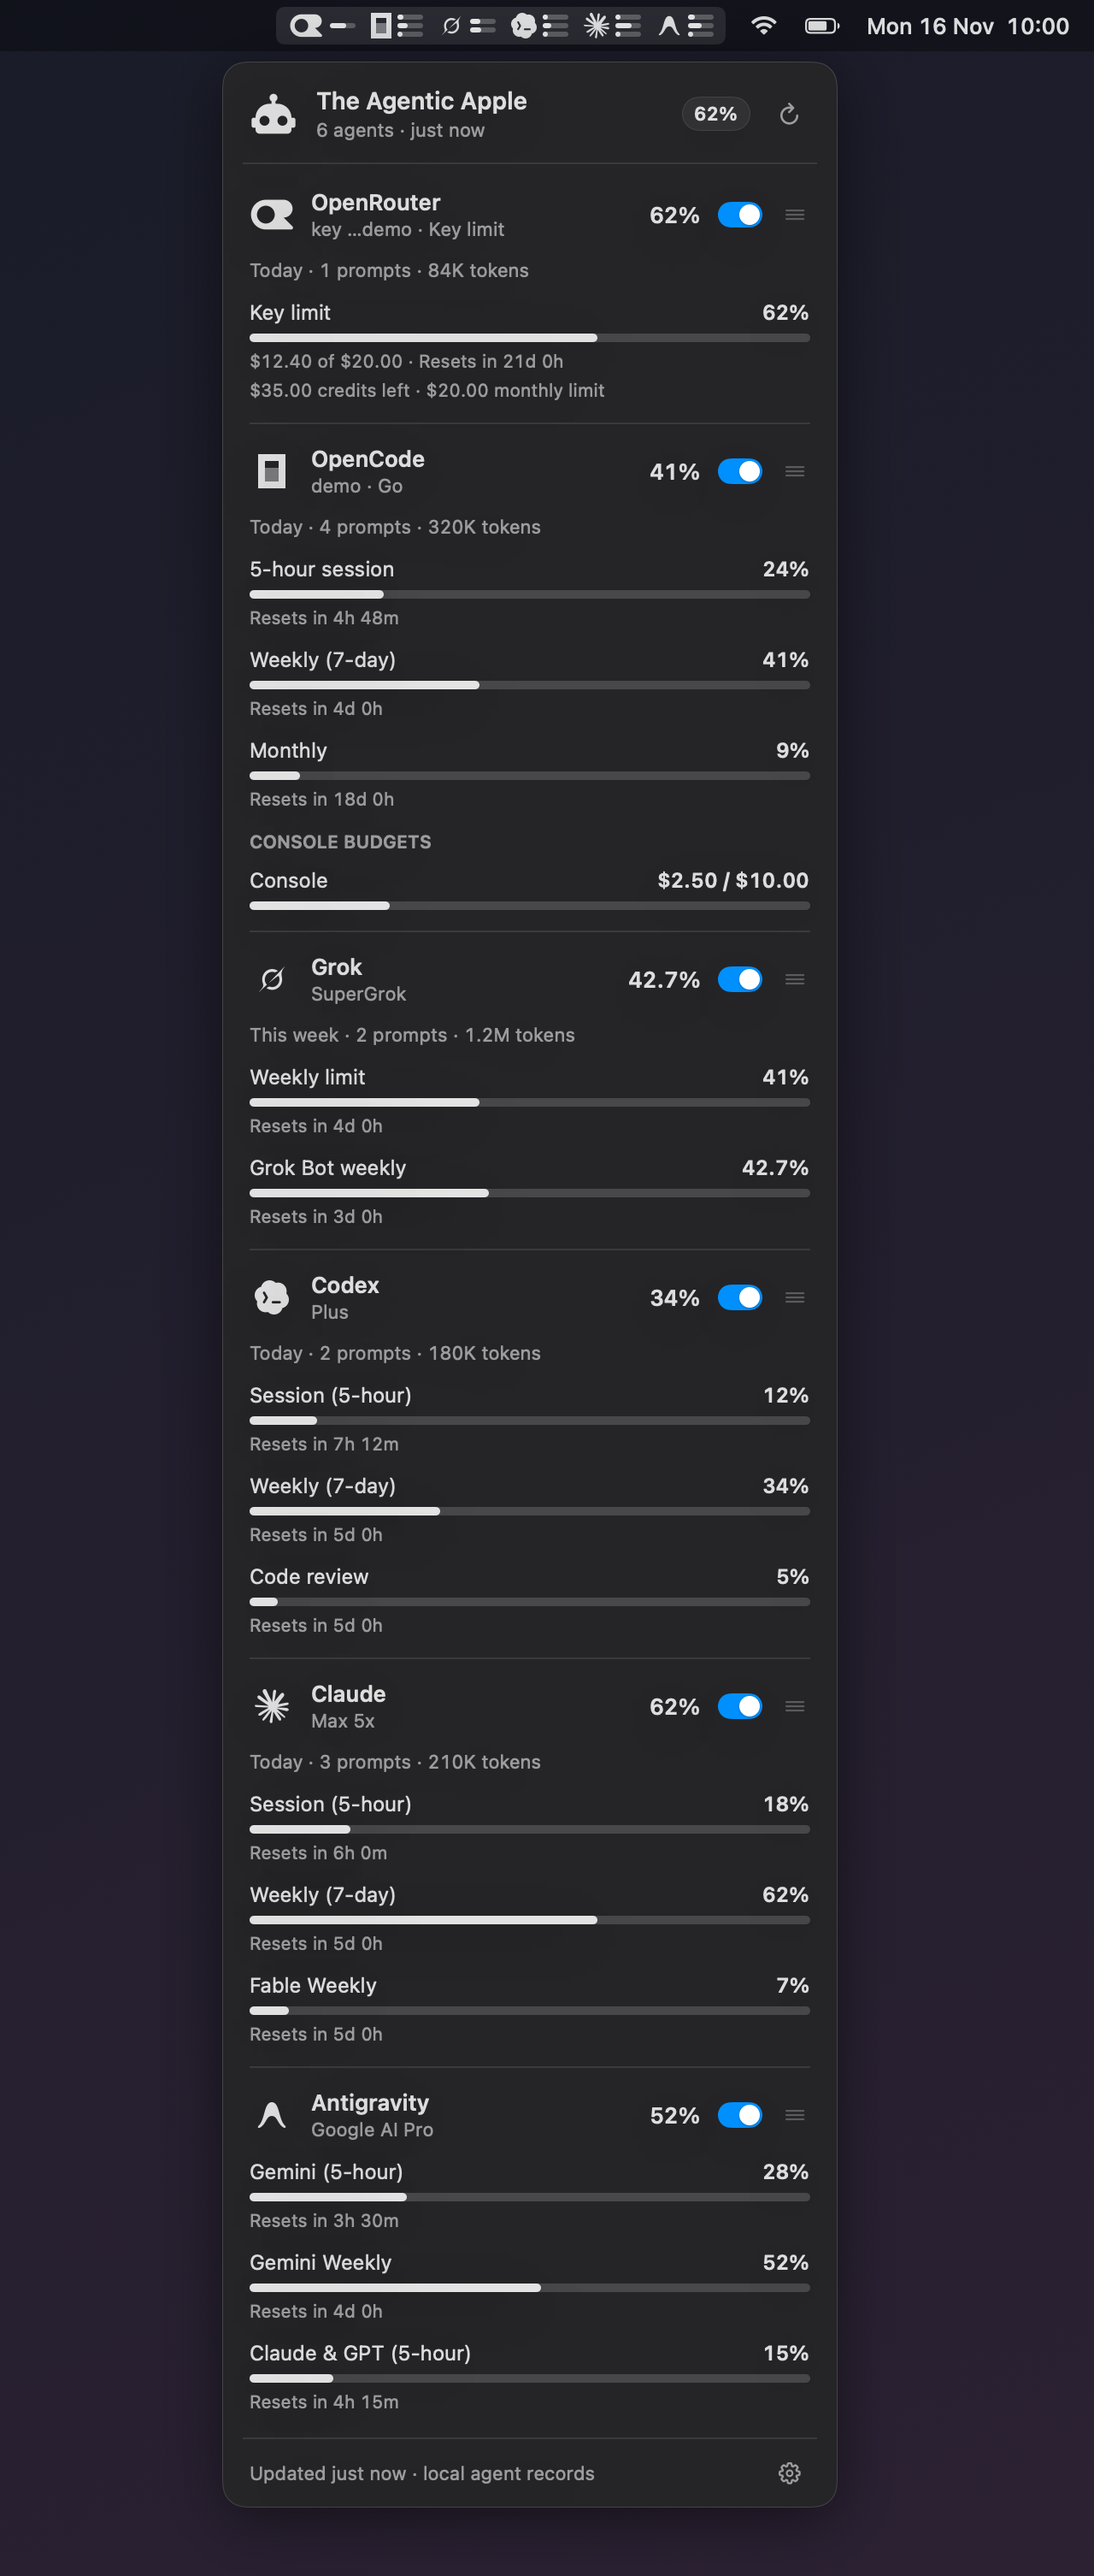
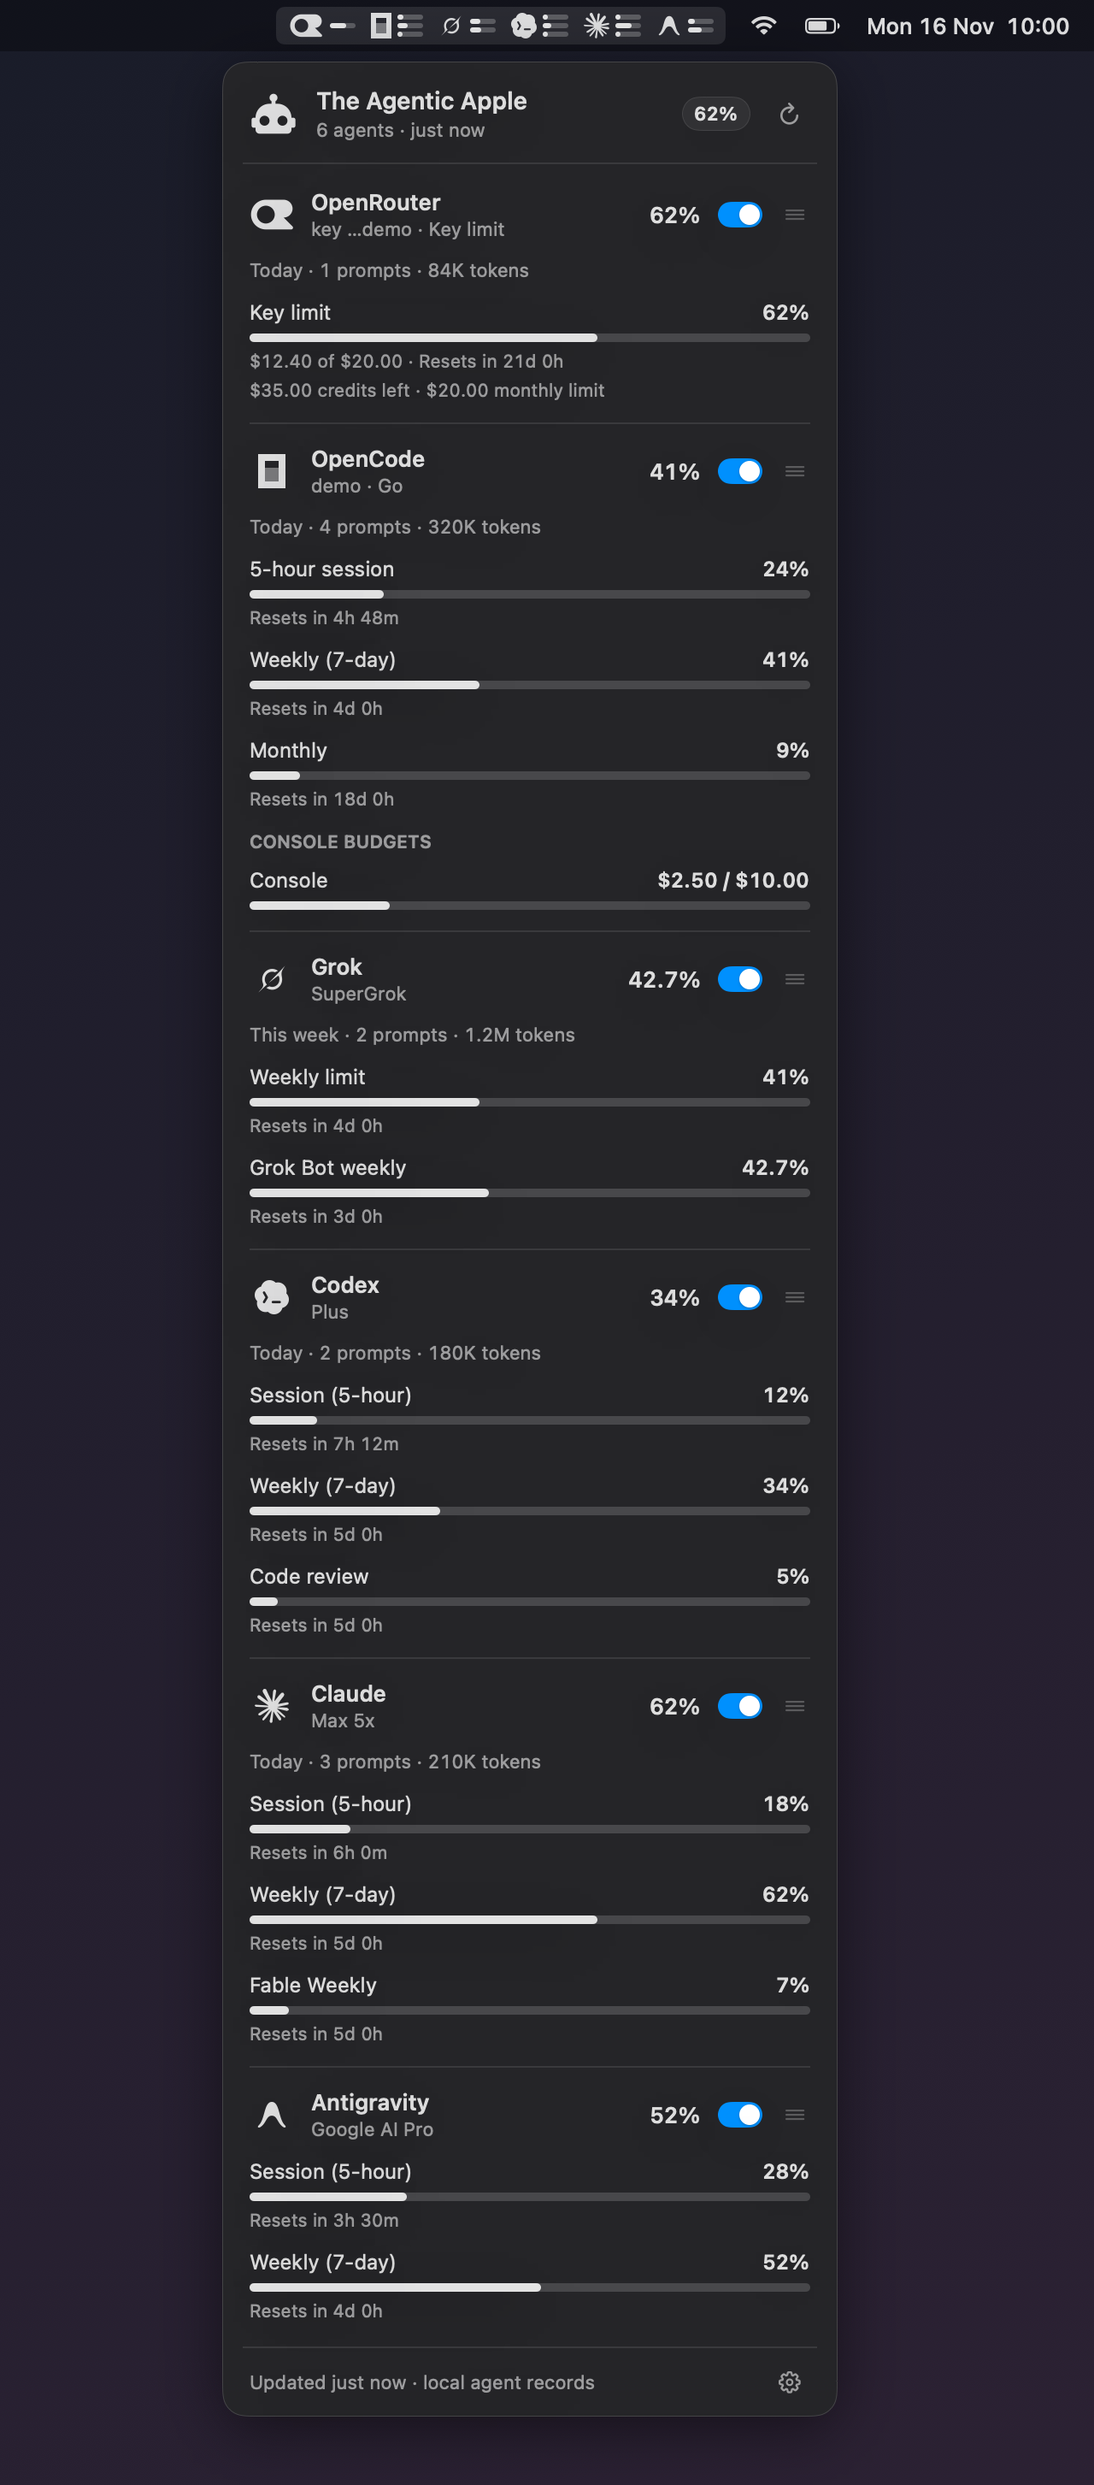
1.2.1: Antigravity Session and Weekly limits with versioned ACP User-Agent

diff --git a/Sources/AgenticCore/Providers/Antigravity.swift b/Sources/AgenticCore/Providers/Antigravity.swift
@@ -565,7 +565,7 @@ public struct AntigravityCollector: ProviderCollector {
             "Authorization": "Bearer " + creds.accessToken,
             "Content-Type": "application/json",
             "Accept": "application/json",
-            "User-Agent": "antigravity/acp",
+            "User-Agent": "antigravity/acp/2.0.0",
         ]
 
         // 1. Resolve plan tier and companion project (best-effort, unless 401/403).
@@ -877,7 +877,11 @@ public struct AntigravityCollector: ProviderCollector {
 
     private static func parseGroups(_ groups: [Any]) -> [Limit] {
         let dictGroups = groups.compactMap { $0 as? [String: Any] }
-        let singleGroup = dictGroups.count == 1
+        let hasGeminiGroup = dictGroups.contains { group in
+            let groupID = Sanitize.text(group["modelGroup"] ?? group["id"], max: 60)
+            let groupName = Sanitize.text(group["displayName"] ?? group["label"], max: 80)
+            return classifyGroup(id: groupID, displayName: groupName).key.hasPrefix("gemini")
+        }
         var ranked: [(rank: Int, subRank: Int, index: Int, limit: Limit)] = []
         var keys = Set<String>()
 
@@ -885,19 +889,39 @@ public struct AntigravityCollector: ProviderCollector {
             let groupID = Sanitize.text(group["modelGroup"] ?? group["id"], max: 60)
             let groupName = Sanitize.text(group["displayName"] ?? group["label"], max: 80)
             let meta = classifyGroup(id: groupID, displayName: groupName)
+            let isPrimary = meta.key == "gemini"
             guard let buckets = group["buckets"] as? [Any] else { continue }
             for case let bucket as [String: Any] in buckets {
                 guard let (used, limited) = usedPercent(from: bucket) else { continue }
+                let resetsAt = Sanitize.dateMs(bucket["resetTime"])
+                // When Antigravity returns the primary Gemini limits, skip untouched
+                // third-party (Claude & GPT) buckets at 0% with no active reset so
+                // the bar and panel stay focused on Session and Weekly limits.
+                if hasGeminiGroup && meta.key == "claude-gpt" && used == 0 && !limited && resetsAt == 0 {
+                    continue
+                }
                 let bWin = Sanitize.text(bucket["window"] ?? bucket["windowType"], max: 40)
                 let bName = Sanitize.text(bucket["displayName"] ?? bucket["label"], max: 60)
-                let bID = Sanitize.text(bucket["id"], max: 60)
+                let bID = Sanitize.text(bucket["bucketId"] ?? bucket["id"], max: 60)
                 let win = classifyWindow(window: bWin, displayName: bName, id: bID)
 
-                let key = "\(meta.key)-\(win.key)"
+                let key: String
+                let label: String
+                let short: String
+                if isPrimary {
+                    key = win.key
+                    switch win.key {
+                    case "session": label = "Session (5-hour)"
+                    case "weekly": label = "Weekly (7-day)"
+                    default: label = win.label.isEmpty ? meta.label : "\(meta.label) \(win.label)"
+                    }
+                    short = win.short
+                } else {
+                    key = "\(meta.key)-\(win.key)"
+                    label = win.label.isEmpty ? meta.label : "\(meta.label) \(win.label)"
+                    short = dictGroups.count == 1 ? win.short : "\(meta.shortPrefix) \(win.short)"
+                }
                 guard keys.insert(key).inserted else { continue }
-                let label = win.label.isEmpty ? meta.label : "\(meta.label) \(win.label)"
-                let short = singleGroup ? win.short : "\(meta.shortPrefix) \(win.short)"
-                let resetsAt = Sanitize.dateMs(bucket["resetTime"])
                 let limit = Limit(key: key, label: Sanitize.plain(label, max: 80),
                                   short: Sanitize.plain(short, max: 14),
                                   percent: used, resetsAt: resetsAt, limited: limited)

diff --git a/Sources/AgenticSelfTest/AntigravityTests.swift b/Sources/AgenticSelfTest/AntigravityTests.swift
@@ -106,9 +106,9 @@ enum AntigravityTests {
         t.equal(p.tier, "Google AI Pro", "tier from GetUserStatus")
         t.equal(p.error, "", "no error")
         t.near(p.readAt, now.timeIntervalSince1970 * 1000, 1, "readAt set")
-        t.equal(p.limits.map(\.key), ["gemini-session", "gemini-weekly", "claude-gpt-session", "claude-gpt-weekly"], "summary keys + rank")
-        t.equal(p.limits.map(\.label), ["Gemini (5-hour)", "Gemini Weekly", "Claude & GPT (5-hour)", "Claude & GPT Weekly"], "summary labels")
-        t.equal(p.limits.map(\.short), ["gem 5h", "gem 7d", "3p 5h", "3p 7d"], "summary shorts")
+        t.equal(p.limits.map(\.key), ["session", "weekly", "claude-gpt-session", "claude-gpt-weekly"], "summary keys + rank")
+        t.equal(p.limits.map(\.label), ["Session (5-hour)", "Weekly (7-day)", "Claude & GPT (5-hour)", "Claude & GPT Weekly"], "summary labels")
+        t.equal(p.limits.map(\.short), ["5h", "7d", "3p 5h", "3p 7d"], "summary shorts")
         t.near(p.limits[0].percent, 28, 0.01, "1 - 0.72 = 28% used")
         t.near(p.limits[1].percent, 52, 0.01, "1 - 0.48 = 52% used")
         t.near(p.limits[2].percent, 15, 0.01, "1 - 0.85 = 15% used")
@@ -185,6 +185,7 @@ enum AntigravityTests {
         let calls1 = Calls()
         let http1 = httpClient(calls1) { url, headers, _ in
             t.equal(headers["Authorization"] ?? "", "Bearer \(token)", "bearer header")
+            t.equal(headers["User-Agent"] ?? "", "antigravity/acp/2.0.0", "versioned ACP user-agent for Gemini groups")
             if url == AntigravityCollector.loadCodeAssistEndpoint {
                 return HTTPResponse(status: 200, body: Fixtures.data("antigravity/load-code-assist.json"))
             }
@@ -394,5 +395,32 @@ enum AntigravityTests {
         t.equal(AntigravityCollector.usedPercent(from: ["isExhausted": true])?.limited, true)
         t.equal(AntigravityCollector.usedPercent(from: ["resetTime": "2026-11-17T15:00:00Z"])?.limited, true, "exhausted bucket omitting remainingFraction")
         t.check(AntigravityCollector.usedPercent(from: [:]) == nil, "empty quota dropped")
+
+        // Live retrieveUserQuotaSummary shape (top-level groups, bucketId, window: "weekly"/"5h", no modelGroup).
+        let liveShape: [String: Any] = [
+            "groups": [
+                [
+                    "displayName": "Gemini Models",
+                    "buckets": [
+                        ["bucketId": "gemini-weekly", "displayName": "Weekly Limit Remaining", "window": "weekly", "remainingFraction": 0.84, "resetTime": "2026-12-04T11:30:00Z"],
+                        ["bucketId": "gemini-5h", "displayName": "Five Hour Limit Remaining", "window": "5h", "remainingFraction": 0.40, "resetTime": "2026-11-27T16:30:00Z"],
+                    ],
+                ],
+                [
+                    "displayName": "Claude and GPT models",
+                    "buckets": [
+                        ["bucketId": "3p-weekly", "displayName": "Weekly Limit Remaining", "window": "weekly", "remainingFraction": 1],
+                        ["bucketId": "3p-5h", "displayName": "Five Hour Limit Remaining", "window": "5h", "remainingFraction": 1],
+                    ],
+                ],
+            ],
+        ]
+        let liveLimits = AntigravityCollector.limitsFromQuotaSummary(liveShape)
+        // Unused 0% 3P buckets with no reset are omitted when primary Gemini limits exist.
+        t.equal(liveLimits.map(\.key), ["session", "weekly"], "live shape keys + rank")
+        t.equal(liveLimits.map(\.label), ["Session (5-hour)", "Weekly (7-day)"], "live shape labels")
+        t.equal(liveLimits.map(\.short), ["5h", "7d"], "live shape shorts")
+        t.near(liveLimits[0].percent, 60, 0.01, "live Gemini 5h used percent")
+        t.near(liveLimits[1].percent, 16, 0.01, "live Gemini weekly used percent")
     }
 }

diff --git a/docs/index.html b/docs/index.html
@@ -106,7 +106,7 @@
               <span class="bi"><svg class="mk mk-sq"><use href="#m-grok"/></svg><span class="meters"><i style="--p:41"></i><i style="--p:43"></i></span></span>
               <span class="bi"><svg class="mk mk-sq"><use href="#m-codex"/></svg><span class="meters"><i style="--p:12"></i><i style="--p:34"></i><i style="--p:5"></i></span></span>
               <span class="bi"><svg class="mk mk-sq"><use href="#m-claude"/></svg><span class="meters"><i style="--p:18"></i><i style="--p:62"></i><i style="--p:7"></i></span></span>
-              <span class="bi"><svg class="mk mk-sq"><use href="#m-antigravity"/></svg><span class="meters"><i style="--p:28"></i><i style="--p:52"></i><i style="--p:15"></i></span></span>
+              <span class="bi"><svg class="mk mk-sq"><use href="#m-antigravity"/></svg><span class="meters"><i style="--p:28"></i><i style="--p:52"></i></span></span>
 
               <div class="panel">
                 <div class="p-hero">
@@ -168,7 +168,7 @@
           <span class="bi"><svg class="mk mk-sq"><use href="#m-grok"/></svg><span class="meters"><i style="--p:41"></i><i style="--p:43"></i></span></span>
           <span class="bi"><svg class="mk mk-sq"><use href="#m-codex"/></svg><span class="meters"><i style="--p:12"></i><i style="--p:34"></i><i style="--p:5"></i></span></span>
           <span class="bi"><svg class="mk mk-sq"><use href="#m-claude"/></svg><span class="meters"><i style="--p:18"></i><i style="--p:62"></i><i style="--p:7"></i></span></span>
-          <span class="bi"><svg class="mk mk-sq"><use href="#m-antigravity"/></svg><span class="meters"><i style="--p:28"></i><i style="--p:52"></i><i style="--p:15"></i></span></span>
+          <span class="bi"><svg class="mk mk-sq"><use href="#m-antigravity"/></svg><span class="meters"><i style="--p:28"></i><i style="--p:52"></i></span></span>
         </div>
       </div>
       <p class="caption">Illustration with invented numbers. The meters are coloured by each window's own state; the marks never are.</p>
@@ -333,7 +333,7 @@
             <tr>
               <th scope="row"><svg class="mk mk-sq" aria-hidden="true"><use href="#m-antigravity"/></svg>Antigravity</th>
               <td data-label="Source">Queries a running Antigravity language server over loopback, or falls back read-only to Antigravity's Keychain sign-in.</td>
-              <td data-label="Windows">Gemini 5-hour &amp; weekly, Claude &amp; GPT pools</td>
+              <td data-label="Windows">Session (5-hour), weekly (7-day)</td>
             </tr>
           </tbody>
         </table>

diff --git a/Sources/AgenticApple/Preview/PreviewFixture.swift b/Sources/AgenticApple/Preview/PreviewFixture.swift
@@ -59,12 +59,10 @@ enum PreviewFixture {
 
         let antigravity = Provider(id: .antigravity, available: true, tier: "Google AI Pro", source: "fixture",
                                    limits: [
-                                    Limit(key: "gemini-session", label: "Gemini (5-hour)", short: "gem 5h", percent: 28,
+                                    Limit(key: "session", label: "Session (5-hour)", short: "5h", percent: 28,
                                           resetsAt: now + 3 * hour + 30 * minute),
-                                    Limit(key: "gemini-weekly", label: "Gemini Weekly", short: "gem 7d", percent: 52,
+                                    Limit(key: "weekly", label: "Weekly (7-day)", short: "7d", percent: 52,
                                           resetsAt: now + 4 * day),
-                                    Limit(key: "claude-gpt-session", label: "Claude & GPT (5-hour)", short: "3p 5h", percent: 15,
-                                          resetsAt: now + 4 * hour + 15 * minute),
                                    ],
                                    readAt: now)
         return [openrouter, opencode, grok, codex, claude, antigravity]

diff --git a/README.md b/README.md
@@ -57,7 +57,7 @@ no Node, no Omarchy and no daemon of its own.
 | **Grok** | Grok mark + plan and Grok Bot meters | Weekly (or daily/monthly) plan limit, Grok Bot's separate weekly allowance, this week's local activity |
 | **Codex** | Codex mark + up to three meters | Session, weekly, code review, model-scoped allowances, a Business seat's spend cap |
 | **Claude** | Anthropic asterisk + up to three meters | Session (5-hour), weekly (7-day), model-scoped allowances (e.g. Fable weekly), today's activity |
-| **Antigravity** | Antigravity mark + up to three meters | Quota windows for Gemini (5-hour / weekly) and shared Claude & GPT pools, or per-pool model quotas (Gemini Pro, Gemini Flash, Claude & GPT) |
+| **Antigravity** | Antigravity mark + up to three meters | Session (5-hour) and Weekly (7-day) limits (plus shared Claude & GPT buckets when used), or per-pool model quotas |
 
 Every agent gets:
 
@@ -401,11 +401,11 @@ Antigravity Desktop App (2.0) and Antigravity IDE:
    lapsed access token shows *Limits paused* (or *Sign-in expired*) and keeps the
    last numbers marked stale until Antigravity refreshes its own sign-in.
 
-When `RetrieveUserQuotaSummary` returns grouped windows, the panel shows each
-group's 5-hour and weekly buckets (e.g. **Gemini (5-hour)**, **Gemini Weekly**,
-**Claude & GPT (5-hour)**). Otherwise, per-model quotas are grouped into shared
-pools (**Gemini Pro**, **Gemini Flash**, **Claude & GPT**) showing the highest
-used percentage in each pool.
+When `RetrieveUserQuotaSummary` returns grouped windows, the panel shows
+**Session (5-hour)** and **Weekly (7-day)** for Antigravity's primary Gemini
+quota (and includes **Claude & GPT** buckets only when used). Otherwise,
+per-model quotas are grouped into shared pools (**Gemini Pro**, **Gemini Flash**,
+**Claude & GPT**) showing the highest used percentage in each pool.
 
 ## How it fetches
 
@@ -592,7 +592,7 @@ OpenCode: 5h 24% · 7d 41% · 1m 9%
 Grok: 7d 41% · bot 42.7%
 Codex: 5h 12% · 7d 34% · rev 5%
 Claude: 5h 18% · 7d 62% · fable 7%
-Antigravity: gem 5h 28% · gem 7d 52% · 3p 5h 15%
+Antigravity: 5h 28% · 7d 52%
 ```
 
 (Invented figures, from `agentic-apple --fixture --text`.) `--json` lists all

diff --git a/CHANGELOG.md b/CHANGELOG.md
@@ -1,5 +1,16 @@
 # Changelog
 
+## 1.2.1 — 2026-11-27
+
+- **Antigravity Session & Weekly limits.** Send a versioned `User-Agent`
+  (`antigravity/acp/2.0.0`) to `v1internal:retrieveUserQuotaSummary` so Google
+  returns the primary **Gemini Models** quota group instead of dropping it and
+  returning only third-party (`Claude & GPT`) buckets; also read `bucketId` on
+  returned buckets.
+- Map Antigravity's primary 5-hour and weekly buckets to **Session (5-hour)**
+  (`5h`) and **Weekly (7-day)** (`7d`), and omit untouched 0% third-party
+  (`Claude & GPT`) buckets when the primary limits are present.
+
 ## 1.2.0 — 2026-11-27
 
 - **Antigravity support.** Added Google Antigravity (CLI, Desktop App and IDE)
